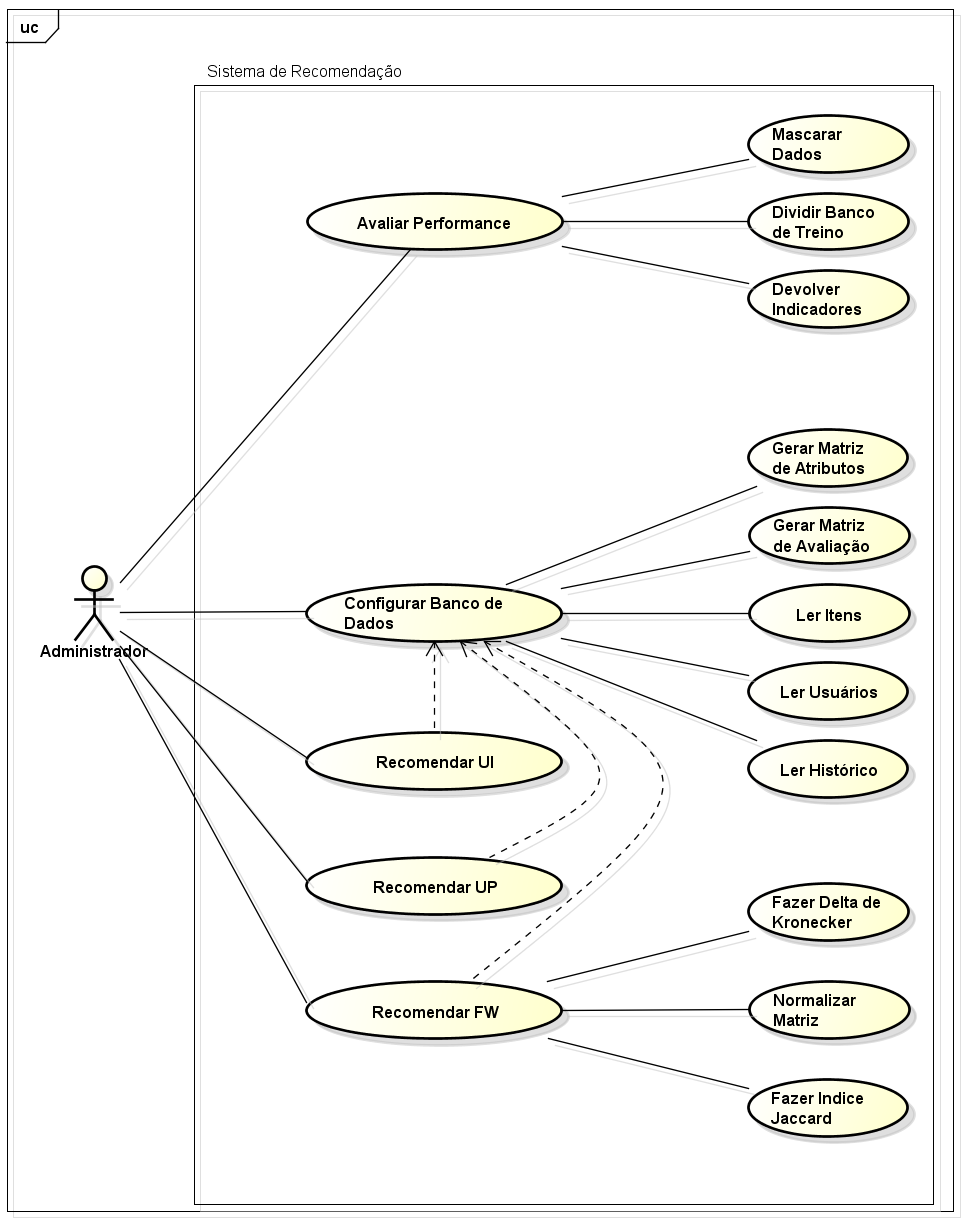
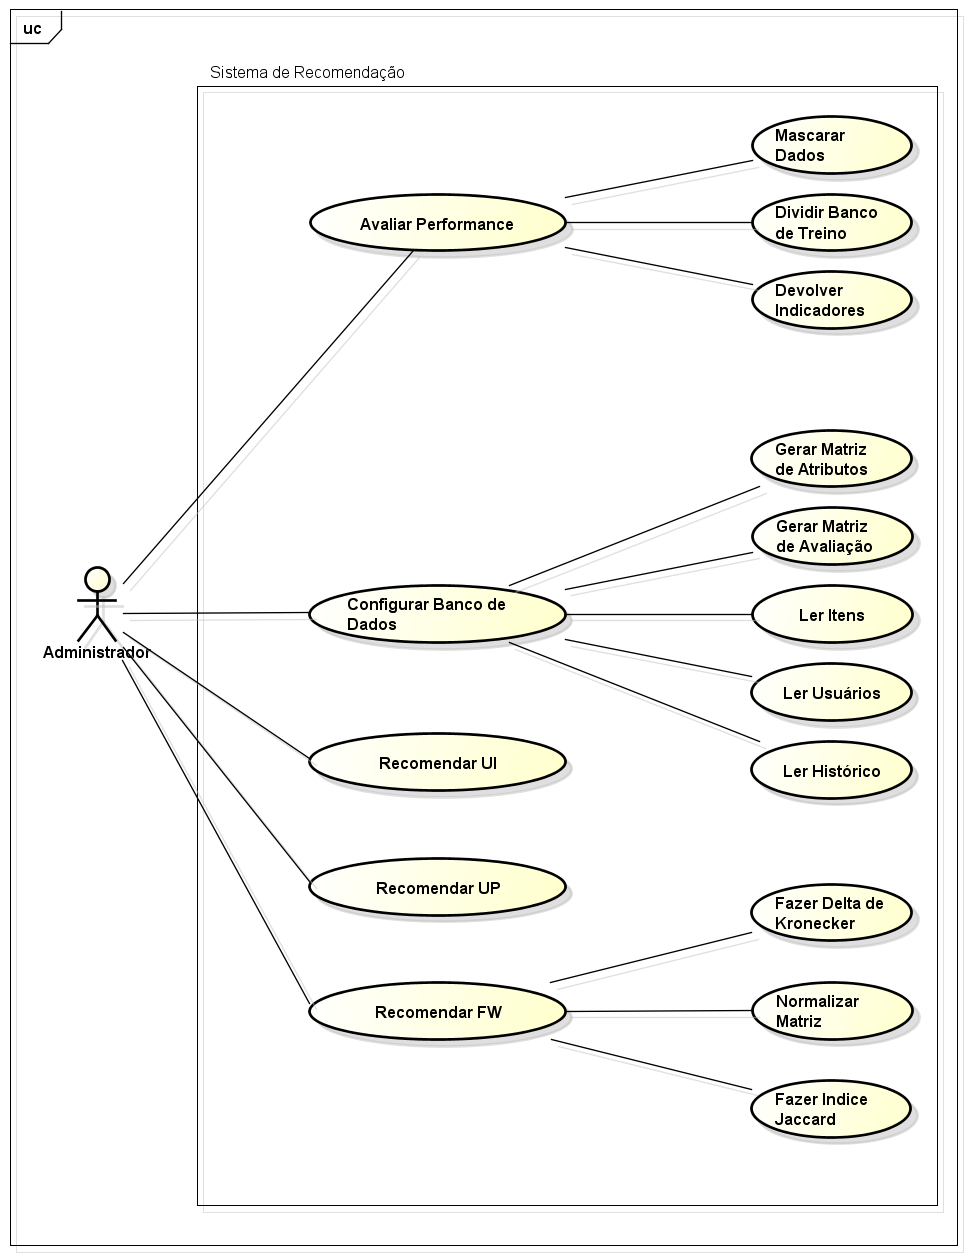
Diagrama de Casos de Uso - update

diff --git a/tese/requisitos.tex b/tese/requisitos.tex
@@ -25,21 +25,18 @@ Por fim, o sistema de recomendação deverá ser escalável e flexível no senti
 
 Apesar serem importantes parâmetros de um sistema de recomendação, a taxa de recomendações por período de tempo e a escalabilidade estão intimamente relacionados ao orçamento do projeto. Pode-se obter virtualmente qualquer \textit{throughput} desejado, contanto que haja investimento equivalente em infra-estrutura computacional. O mesmo não é válido para os parâmetros de qualidade da recomendação, que dependem tão somente dos algoritmos de sugestão. Neste trabalho, assumimos que o sistema de operará em microcomputadores pessoais, e por isso o requisito funcional \textit{throughput} se faz necessário.
 
-Com os requisitos do sistema de recomendação definidos, devemos estruturar o seu relacionamento com o administrador do sistema. Para isto determinamos as ações que o administrador pode realizar com este sistema. Cada uma destas ações é um caso de uso, e ao total foram criados nove casos de uso para este sistema.
+Com os requisitos do sistema de recomendação definidos, devemos estruturar o seu relacionamento com o administrador do sistema. Para isto determinamos seus casos de uso, classes e atividades.
 
-O primeiro caso de uso é o caso \textit{Selecionar Método}, onde o administrador do sistema pode selecionar entre qual método de recomendação será utilizado para gerar as recomendações do sistema.
+\section{Diagrama de Casos de Uso} % (fold)
+\label{sec:Diagrama de Casos de Uso}
 
-O segundo caso é o \textit{Selecionar Banco de Dados}, pelo qual é permitido ao administrador selecionar o banco de dados para o qual serão geradas as recomendações.
+Os casos de uso se dividem em \textit{Avaliar Performance}, \textit{Configurar Banco de Dados}, \textit{Recomendar UI}, \textit{Recomendar UP}, \textit{Recomendar FW}.
 
-O terceiro caso \textit{Gerar Recomendações} é o caso onde o dá ínicio aos cálculos das recomendações com o método e o banco de dados préviamente escolhidos, o que caracteriza dependência indicada na figura.
+O caso de Uso \textit{Avaliar Performance}, para avaliar a performance do sistema de recomendação. \textit{Avaliar Performance} se relaciona com outros 3 casos de uso. O primeiro deles, \textit{Mascarar Dados}, serve para mascarar dados de alguns usuários-teste na matriz de avaliações. Para, após, compará-los às recomendações calculadas pelo sistema. O segundo caso, \textit{Dividir Banco de Treino}, tem o objetivo de dividir o banco de dados em dois, um para o aprendizado do sistema e o segundo para testes. O terceiro caso, \textit{Devolver Indicadores}, torna os indicadores de performance acessíveis ao administrador do sistema.
 
-O quarto caso de uso, \textit{Escolher Cliente}, permite ao administrador selecionar o cliente para o qual quer ter acesso às recomendações. Isto que nos leva ao quinto caso de uso, \textit{Ranquear Itens Para Cliente},o qual ordenas os itens do banco de dados de forma decrescente de acordo com o valor da recomendação para o cliente escolhido.
+O caso de uso \textit{Configurar Banco de Dados} tem a utilidade de converter o banco de dados de entrada em matrizes. O caso \textit{Ler Itens}, é o encarregado de ler o arquivo de itens fornecido pelo banco de dados, assim como \textit{Ler Usuários} e \textit{Ler Histórico} são para usuários e histórico. Os casos de uso \textit{Gerar Matriz de Atributos} e \textit{Gerar Matriz de Avaliação} constroem as matrizes de acordo com dados lidos pelos casos de uso de leitura.
 
- O sexto caso, \textit{Avaliar Recomendações}, permite ao usuário avaliar a precisão de a acurácia do sistema. Este, em conjunto com o \textit{Fazer Validação Cruzada}, servirá para avaliar se o método utilizado para gerar as recomendações é indicado para ser implementado no sistema de vendas do e-commerce.
-
- O caso de uso \textit{Devolver Banco de Recomendações}, é o principal output do sistema, onde se devolve um banco de dados com todas as precisões de avaliações de cada um dos itens por cada um dos usuários.
-
- O último caso de uso, \textit{Devolver Pesos dos Atributos}, retornará o peso que cada atributo dos itens tem. Assim definindo quais atributos são mais importantes para cada usuário.
+Já os casos de uso \textit{Recomendar UI}, \textit{Recomendar UP} e \textit{Recomendar FW}, são os cacsos de uso em que se geram as recomendações pelos métodos baseados na correlação usuário-item, no perfil de usuários e na ponderação de atributos respectivamente. O método de recomendação baseado na ponderação de atributos necessita de outros 3 casos de uso, o \textit{Normalizar Matriz}, onde se normaliza as colunas da matriz de distância entre atributos. Esta distância entre atributos é calculada pelos dois outros casos de uso, \textit{Fazer Delta de Kronecker} e \textit{Fazer Indice Jaccard}.
 
  Estes casos de uso foram representados no diagrama de casos de uso abaixo.
 
@@ -48,5 +45,5 @@ O quarto caso de uso, \textit{Escolher Cliente}, permite ao administrador seleci
     \includegraphics[width=1\textwidth]{img/CasosDeUso}
     \end{center}
     \label{fig:Diagrama de Casos de Uso}
-    \caption{Diagrama de casos de uso representando os relacionamentos entre o administrador e o sistema.}
+    \caption{Diagrama de casos de uso representando os relacionamentos entre o administrador e o sistema de recomendações.}
 \end{figure}
